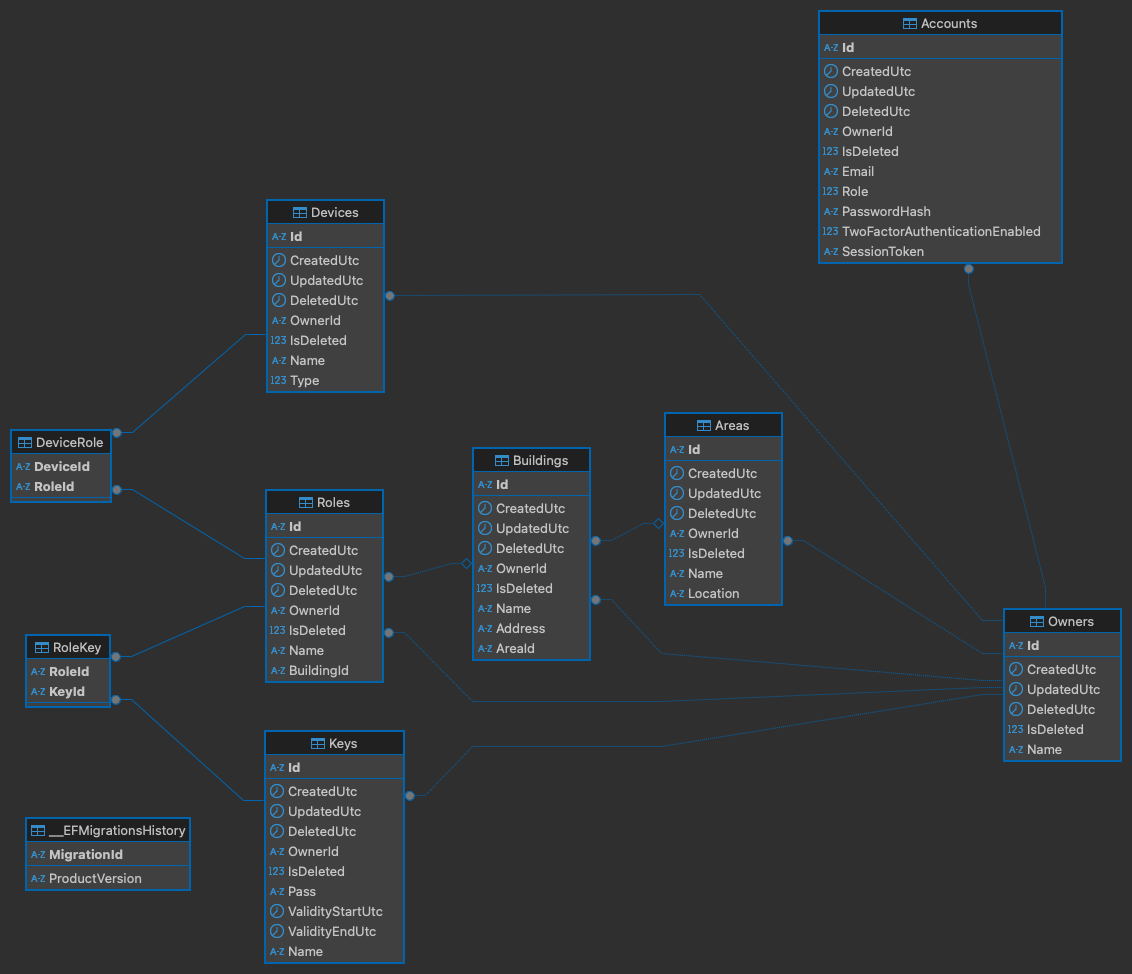
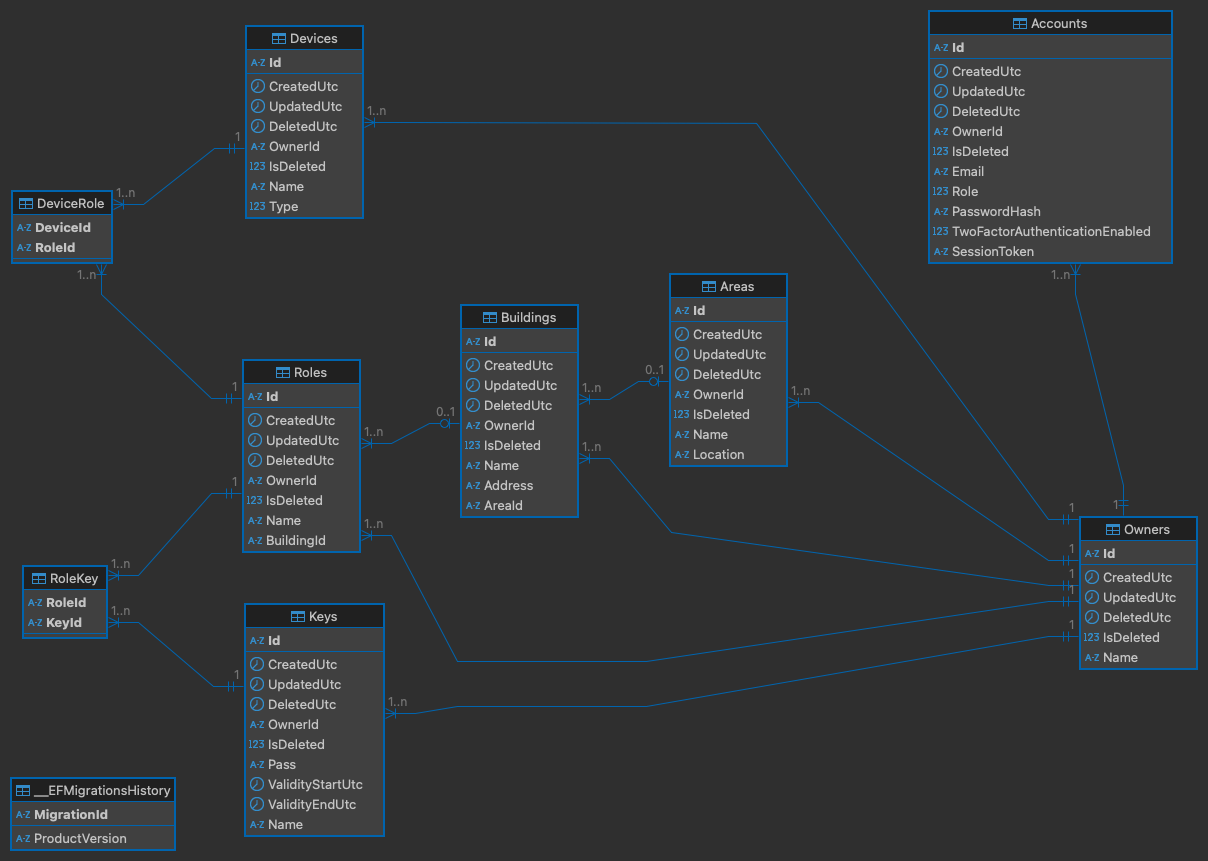
uz to bezi
hooray

diff --git a/src/Application/Services/Accounts/AccountService.cs b/src/Application/Services/Accounts/AccountService.cs
@@ -7,10 +7,13 @@ namespace Application.Services.Accounts;
 
 public class AccountService : BasicService.BasicService, IAccountService
 {
+    private const int BCRYPT_WORK_FACTOR = 11;
+    
     public AccountService(IUnitOfWork.IUnitOfWork unitOfWork)
         : base(unitOfWork)
     {
     }
+    
     public async Task AddAccountUnderOwner(Owner owner, string email, string password, CancellationToken cancellationToken)
     {
         Check.Contract(owner, "Owner cannot be null");
@@ -28,7 +31,7 @@ public class AccountService : BasicService.BasicService, IAccountService
         // account already exists
         Check.Contract(account is null, "Account with such email already exists.");
 
-        var passwordHash = BCrypt.Net.BCrypt.HashPassword(password);
+        var passwordHash = BCrypt.Net.BCrypt.HashPassword(password, workFactor: BCRYPT_WORK_FACTOR);
 
         var accountToAdd = Account.Create(owner, email, AccountRole.User, passwordHash);
 
@@ -52,6 +55,14 @@ public class AccountService : BasicService.BasicService, IAccountService
 
     public bool IsPasswordCorrect(string password, Account account)
     {
-        return BCrypt.Net.BCrypt.Verify(password, account.PasswordHash);
+        try
+        {
+            return BCrypt.Net.BCrypt.Verify(password, account.PasswordHash);
+        }
+        catch (Exception ex) when (ex is BCrypt.Net.SaltParseException or ArgumentException)
+        {
+            // invalid hash from db or wrong arguments
+            return false;
+        }
     }
 }
